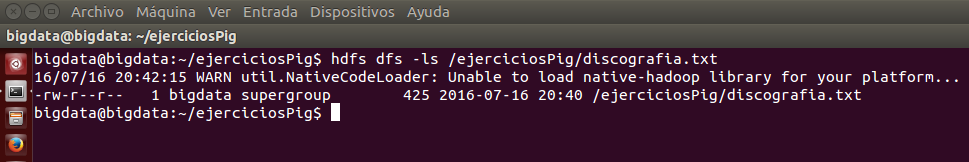
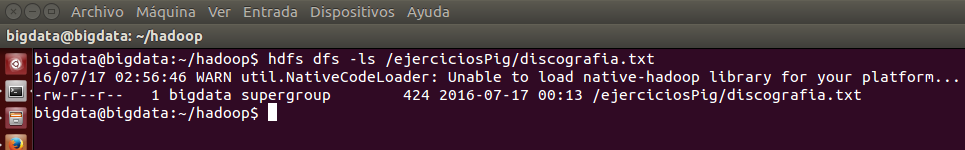
Actualización

Changed region(s): [[0.0, 0.1867, 1.0, 1.0], [0.0, 0.0267, 1.0, 0.16]]

diff --git a/sesion2/EjercicioPIG/HadoopEjercicioPIG.md b/sesion2/EjercicioPIG/HadoopEjercicioPIG.md
@@ -89,10 +89,10 @@ Partiendo de la discografía de Pink Floyd (año, nombre disco, ranking EEUU, ra
 
 ## 4. Ejecutar la instrucción ls sobre Hadoop para indicar el tamaño del fichero
 ```bash
-    hdfs dfs -du /ejerciciosPig/discografia.txt
+    hdfs dfs -ls /ejerciciosPig/discografia.txt
 ```
 
-![du discografia.txt](images/DuDiscografia.png)
+![ls discografia.txt](images/LsDiscografia.png)
 
 ## 5. Arrancar pig en modo distribuido (si se desea eliminar trazas de log) y ejecutar el siguiente comando: cat hdfs://localhost:9000 ejerciciosPig/discografia.txt para confirmar que los primeros puntos han funcionado correctamente y el fichero está subido a HDFS
 
